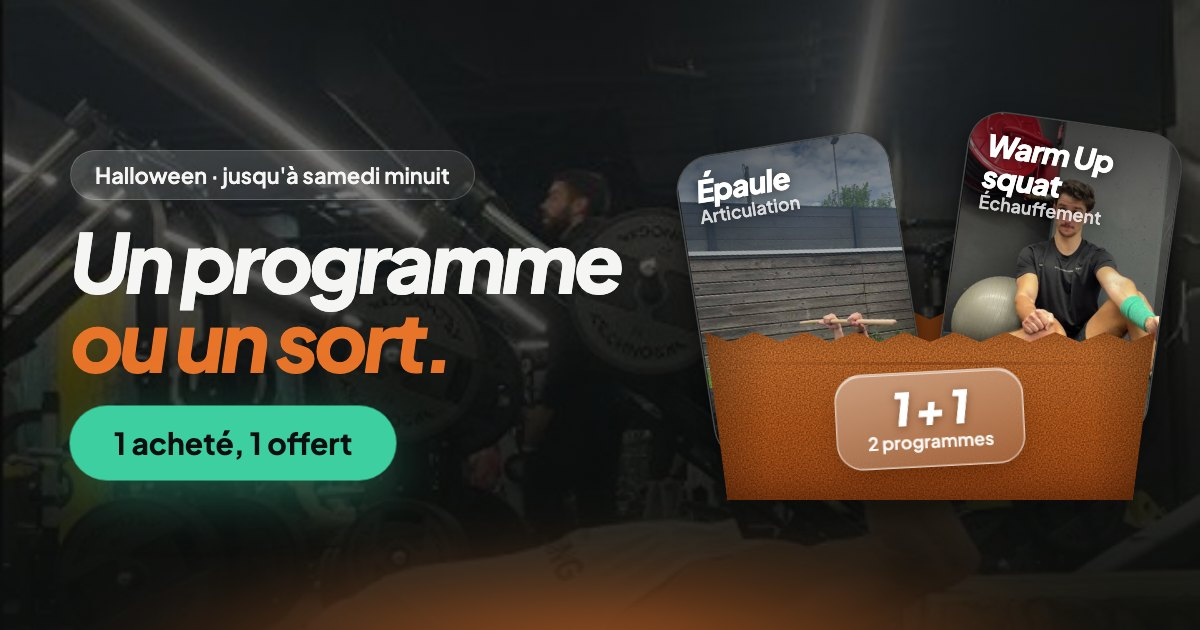
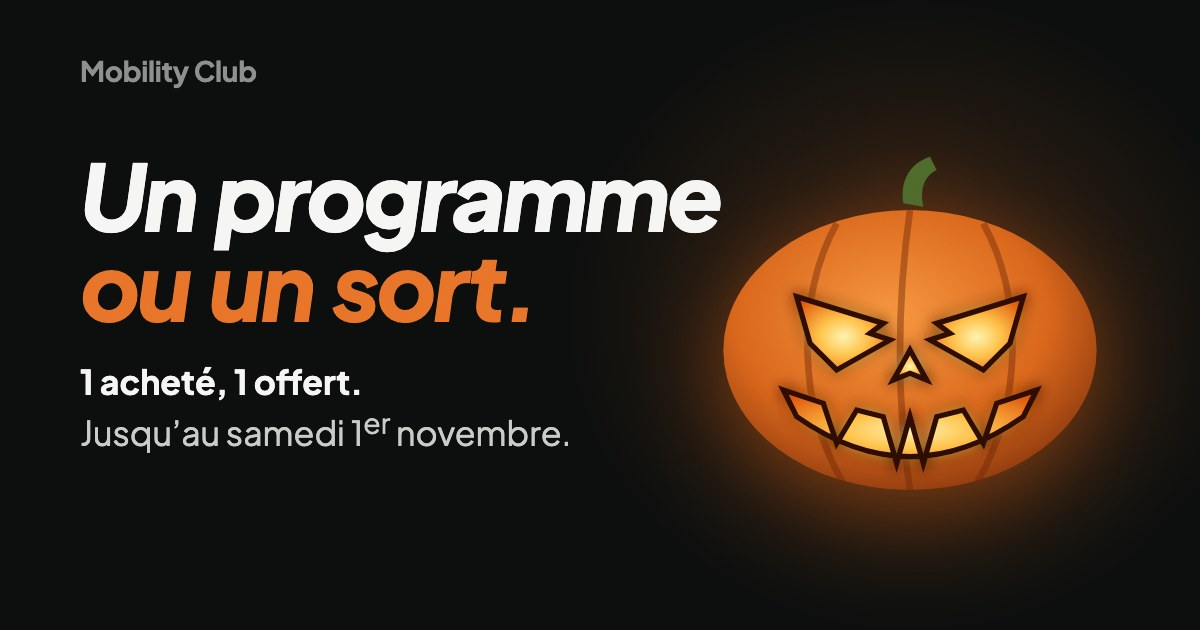
feat(halloween): visuels d'annonce (4 stories, 2 bannières mail, og) avec la citrouille sculptée
Compositions HTML + rendu Playwright (npm run visuels:halloween).

diff --git a/scripts/visuels-halloween/story-4.html b/scripts/visuels-halloween/story-4.html
@@ -1,0 +1,31 @@
+<!DOCTYPE html>
+<html lang="fr"><head><meta charset="UTF-8" /><title>Story 4</title>
+<link rel="preconnect" href="https://fonts.googleapis.com" /><link rel="preconnect" href="https://fonts.gstatic.com" crossorigin />
+<link href="https://fonts.googleapis.com/css2?family=Plus+Jakarta+Sans:ital,wght@0,400;0,500;0,600;0,700;0,800;1,700;1,800&display=swap" rel="stylesheet" />
+<link rel="stylesheet" href="../../assets/halloween/commun.css" />
+<link rel="stylesheet" href="visuel.css" />
+<style>
+
+.st{display:flex;flex-direction:column;align-items:center;}
+.glow{background:radial-gradient(60% 26% at 50% 20%,rgba(232,116,42,.20),transparent 72%);}
+.pk{margin-top:250px;filter:drop-shadow(0 16px 40px rgba(255,110,20,.40));}
+h1{margin-top:30px;font-size:112px;letter-spacing:-.035em;word-spacing:.07em;line-height:.98;text-align:center;}
+.sub{margin-top:26px;font-size:40px;line-height:1.3;color:var(--body);text-align:center;}
+.sub b{color:var(--text);font-weight:700;}
+.prix{list-style:none;margin:48px 0 0;padding:0;width:920px;display:grid;gap:16px;}
+.prix li{display:flex;justify-content:space-between;align-items:center;gap:24px;padding:26px 40px;border-radius:30px;background:rgba(255,255,255,.04);box-shadow:inset 0 0 0 1px rgba(255,255,255,.08);font-size:34px;line-height:1.25;color:var(--text);}
+.prix li:first-child{background:linear-gradient(160deg,rgba(232,116,42,.16),rgba(232,116,42,.04));box-shadow:inset 0 0 0 1px rgba(232,116,42,.38);}
+.prix b{font-size:70px;font-weight:800;font-style:italic;letter-spacing:-.05em;white-space:nowrap;line-height:1;}
+.hint{position:absolute;left:0;right:0;top:1176px;display:flex;justify-content:center;align-items:center;gap:14px;font-size:36px;font-weight:700;color:var(--green);}
+.hint svg{width:34px;height:34px;stroke:var(--green);}
+.marque{position:absolute;left:0;right:0;top:1530px;text-align:center;font-size:32px;}
+
+</style></head>
+<body>
+<div class="st s1080"><div class="glow"></div>
+<svg class="pk" style="width:210px" viewBox="0 0 120 104" aria-hidden="true" focusable="false"><defs><radialGradient id="emCorps" cx="45%" cy="38%" r="70%"><stop offset="0" stop-color="#F7963F"/><stop offset=".6" stop-color="#D9661C"/><stop offset="1" stop-color="#7E300C"/></radialGradient><radialGradient id="emFeu" cx="50%" cy="55%" r="65%"><stop offset="0" stop-color="#FFF3B0"/><stop offset=".4" stop-color="#FFC24A"/><stop offset="1" stop-color="#E0520A"/></radialGradient><filter id="emLueur" x="-40%" y="-40%" width="180%" height="180%"><feGaussianBlur stdDeviation="2" result="f"/><feMerge><feMergeNode in="f"/><feMergeNode in="SourceGraphic"/></feMerge></filter></defs><path d="M58 16 C57 9 60 4 66 2 L68 6 C64 8 63 12 64 17 Z" fill="#4E6B2C"/><ellipse cx="60" cy="60" rx="56" ry="42" fill="url(#emCorps)"/><g fill="none" stroke="#6E2808" stroke-opacity=".45" stroke-width="2"><path d="M38 22 C26 44 26 76 40 100"/><path d="M60 18 C56 46 56 76 60 102"/><path d="M82 22 C94 44 94 76 80 100"/></g><g class="jack-feu" fill="url(#emFeu)" stroke="#2E0E01" stroke-width="1.6" filter="url(#emLueur)"><path d="M26 44 L52 52 L48 55 L54 57 L38 66 L30 58 Z"/><path d="M94 44 L68 52 L72 55 L66 57 L82 66 L90 58 Z"/><path d="M60 60 L55 69 L60 67 L65 69 Z"/><path d="M22 72 L34 76 L38 88 L44 78 L52 80 L56 94 L60 80 L64 94 L68 80 L76 78 L82 88 L86 76 L98 72 L94 80 Q60 104 26 80 Z"/></g></svg>
+<h1>Jusqu’à samedi,<br><em>23 h 59.</em></h1>
+<p class="sub"><b>1 programme acheté, 1 offert.</b><br>Tu paies le plus cher des deux.</p>
+<ul class="prix"><li><span>2 Articulation, ou<br>Articulation + Warm Up</span><b>90 €</b></li><li><span>2 Warm Up</span><b>49 €</b></li></ul>
+<div class="hint"><span>Touche le lien</span><svg viewBox="0 0 24 24" fill="none" stroke-width="2.4" stroke-linecap="round" stroke-linejoin="round"><path d="M12 5v14M6 13l6 6 6-6"/></svg></div>
+<div class="marque">mobilityclub.co/halloween</div></div></body></html>

diff --git a/scripts/visuels-halloween/email-1.html b/scripts/visuels-halloween/email-1.html
@@ -1,0 +1,23 @@
+<!DOCTYPE html>
+<html lang="fr"><head><meta charset="UTF-8" /><title>Email 1</title>
+<link rel="preconnect" href="https://fonts.googleapis.com" /><link rel="preconnect" href="https://fonts.gstatic.com" crossorigin />
+<link href="https://fonts.googleapis.com/css2?family=Plus+Jakarta+Sans:ital,wght@0,400;0,500;0,600;0,700;0,800;1,700;1,800&display=swap" rel="stylesheet" />
+<link rel="stylesheet" href="../../assets/halloween/commun.css" />
+<link rel="stylesheet" href="visuel.css" />
+<style>
+
+.glow{background:radial-gradient(40% 60% at 78% 50%,rgba(232,116,42,.22),transparent 72%);}
+.pk{position:absolute;right:90px;top:170px;filter:drop-shadow(0 18px 44px rgba(255,110,20,.42));}
+.tx{position:absolute;left:80px;top:130px;width:640px;}
+h1{font-size:124px;letter-spacing:-.035em;word-spacing:.07em;line-height:.98;}
+.sub{margin-top:30px;font-size:32px;line-height:1.35;color:var(--body);}
+.sub b{color:var(--text);font-weight:700;}
+.cta{margin-top:40px;height:76px;padding:0 32px 0 38px;font-size:28px;gap:14px;}
+.cta::after{width:28px;height:28px;}
+.marque{position:absolute;left:80px;top:48px;font-size:28px;}
+
+</style></head>
+<body>
+<div class="st" style="width:1200px;height:800px"><div class="glow"></div><div class="marque">Mobility Club</div>
+<svg class="pk" style="width:420px" viewBox="0 0 120 104" aria-hidden="true" focusable="false"><defs><radialGradient id="emCorps" cx="45%" cy="38%" r="70%"><stop offset="0" stop-color="#F7963F"/><stop offset=".6" stop-color="#D9661C"/><stop offset="1" stop-color="#7E300C"/></radialGradient><radialGradient id="emFeu" cx="50%" cy="55%" r="65%"><stop offset="0" stop-color="#FFF3B0"/><stop offset=".4" stop-color="#FFC24A"/><stop offset="1" stop-color="#E0520A"/></radialGradient><filter id="emLueur" x="-40%" y="-40%" width="180%" height="180%"><feGaussianBlur stdDeviation="2" result="f"/><feMerge><feMergeNode in="f"/><feMergeNode in="SourceGraphic"/></feMerge></filter></defs><path d="M58 16 C57 9 60 4 66 2 L68 6 C64 8 63 12 64 17 Z" fill="#4E6B2C"/><ellipse cx="60" cy="60" rx="56" ry="42" fill="url(#emCorps)"/><g fill="none" stroke="#6E2808" stroke-opacity=".45" stroke-width="2"><path d="M38 22 C26 44 26 76 40 100"/><path d="M60 18 C56 46 56 76 60 102"/><path d="M82 22 C94 44 94 76 80 100"/></g><g class="jack-feu" fill="url(#emFeu)" stroke="#2E0E01" stroke-width="1.6" filter="url(#emLueur)"><path d="M26 44 L52 52 L48 55 L54 57 L38 66 L30 58 Z"/><path d="M94 44 L68 52 L72 55 L66 57 L82 66 L90 58 Z"/><path d="M60 60 L55 69 L60 67 L65 69 Z"/><path d="M22 72 L34 76 L38 88 L44 78 L52 80 L56 94 L60 80 L64 94 L68 80 L76 78 L82 88 L86 76 L98 72 L94 80 Q60 104 26 80 Z"/></g></svg>
+<div class="tx"><h1>1 acheté,<br><em>1 offert.</em></h1><p class="sub">Tu paies le plus cher des deux.<br><b>Jusqu’au samedi 1<sup>er</sup> novembre, 23 h 59.</b></p><span class="cta">Choisir mes programmes</span></div></div></body></html>

diff --git a/scripts/visuels-halloween/og.html b/scripts/visuels-halloween/og.html
@@ -1,0 +1,21 @@
+<!DOCTYPE html>
+<html lang="fr"><head><meta charset="UTF-8" /><title>OG</title>
+<link rel="preconnect" href="https://fonts.googleapis.com" /><link rel="preconnect" href="https://fonts.gstatic.com" crossorigin />
+<link href="https://fonts.googleapis.com/css2?family=Plus+Jakarta+Sans:ital,wght@0,400;0,500;0,600;0,700;0,800;1,700;1,800&display=swap" rel="stylesheet" />
+<link rel="stylesheet" href="../../assets/halloween/commun.css" />
+<link rel="stylesheet" href="visuel.css" />
+<style>
+
+.glow{background:radial-gradient(40% 70% at 76% 50%,rgba(232,116,42,.22),transparent 72%);}
+.pk{position:absolute;right:90px;top:150px;filter:drop-shadow(0 18px 44px rgba(255,110,20,.42));}
+.tx{position:absolute;left:80px;top:150px;width:700px;}
+h1{font-size:92px;white-space:nowrap;letter-spacing:-.035em;word-spacing:.07em;line-height:.98;}
+.sub{margin-top:30px;font-size:34px;line-height:1.3;color:var(--body);}
+.sub b{color:var(--text);font-weight:700;}
+.marque{position:absolute;left:80px;top:54px;font-size:28px;}
+
+</style></head>
+<body>
+<div class="st" style="width:1200px;height:630px"><div class="glow"></div><div class="marque">Mobility Club</div>
+<svg class="pk" style="width:400px" viewBox="0 0 120 104" aria-hidden="true" focusable="false"><defs><radialGradient id="emCorps" cx="45%" cy="38%" r="70%"><stop offset="0" stop-color="#F7963F"/><stop offset=".6" stop-color="#D9661C"/><stop offset="1" stop-color="#7E300C"/></radialGradient><radialGradient id="emFeu" cx="50%" cy="55%" r="65%"><stop offset="0" stop-color="#FFF3B0"/><stop offset=".4" stop-color="#FFC24A"/><stop offset="1" stop-color="#E0520A"/></radialGradient><filter id="emLueur" x="-40%" y="-40%" width="180%" height="180%"><feGaussianBlur stdDeviation="2" result="f"/><feMerge><feMergeNode in="f"/><feMergeNode in="SourceGraphic"/></feMerge></filter></defs><path d="M58 16 C57 9 60 4 66 2 L68 6 C64 8 63 12 64 17 Z" fill="#4E6B2C"/><ellipse cx="60" cy="60" rx="56" ry="42" fill="url(#emCorps)"/><g fill="none" stroke="#6E2808" stroke-opacity=".45" stroke-width="2"><path d="M38 22 C26 44 26 76 40 100"/><path d="M60 18 C56 46 56 76 60 102"/><path d="M82 22 C94 44 94 76 80 100"/></g><g class="jack-feu" fill="url(#emFeu)" stroke="#2E0E01" stroke-width="1.6" filter="url(#emLueur)"><path d="M26 44 L52 52 L48 55 L54 57 L38 66 L30 58 Z"/><path d="M94 44 L68 52 L72 55 L66 57 L82 66 L90 58 Z"/><path d="M60 60 L55 69 L60 67 L65 69 Z"/><path d="M22 72 L34 76 L38 88 L44 78 L52 80 L56 94 L60 80 L64 94 L68 80 L76 78 L82 88 L86 76 L98 72 L94 80 Q60 104 26 80 Z"/></g></svg>
+<div class="tx"><h1>Un programme<br><em>ou un sort.</em></h1><p class="sub"><b>1 acheté, 1 offert.</b><br>Jusqu’au samedi 1<sup>er</sup> novembre.</p></div></div></body></html>

diff --git a/scripts/visuels-halloween/story-2.html b/scripts/visuels-halloween/story-2.html
@@ -1,0 +1,29 @@
+<!DOCTYPE html>
+<html lang="fr"><head><meta charset="UTF-8" /><title>Story 2</title>
+<link rel="preconnect" href="https://fonts.googleapis.com" /><link rel="preconnect" href="https://fonts.gstatic.com" crossorigin />
+<link href="https://fonts.googleapis.com/css2?family=Plus+Jakarta+Sans:ital,wght@0,400;0,500;0,600;0,700;0,800;1,700;1,800&display=swap" rel="stylesheet" />
+<link rel="stylesheet" href="../../assets/halloween/commun.css" />
+<link rel="stylesheet" href="visuel.css" />
+<style>
+
+.glow{background:radial-gradient(60% 30% at 20% 62%,rgba(232,116,42,.16),transparent 70%);}
+.photo-bg .sh{object-position:50% 40%;}
+.photo-bg::after{content:"";position:absolute;inset:0;background:linear-gradient(180deg,rgba(13,15,14,.7) 0%,rgba(13,15,14,.35) 30%,rgba(13,15,14,.8) 62%,rgba(13,15,14,.95) 100%);}
+.in{position:absolute;left:80px;right:80px;top:300px;}
+h1{font-size:106px;letter-spacing:-.035em;word-spacing:.07em;line-height:.98;text-wrap:balance;}
+.sub{margin-top:34px;font-size:40px;line-height:1.3;color:var(--body);max-width:none;}
+.sub b{color:var(--text);font-weight:700;}
+.steps{position:absolute;left:80px;right:80px;top:800px;padding:14px 48px;border-radius:40px;list-style:none;margin:0;}
+.steps li{display:grid;grid-template-columns:84px 1fr;column-gap:20px;align-items:baseline;padding:30px 0;border-bottom:1px solid rgba(255,255,255,.1);}
+.steps li:last-child{border-bottom:0;}
+.steps .n{grid-row:1/span 2;font-style:italic;font-weight:800;font-size:68px;line-height:1;color:var(--pumpkin);letter-spacing:-.04em;}
+.steps b{font-style:italic;font-weight:800;font-size:46px;letter-spacing:-.03em;line-height:1.1;color:var(--text);}
+.steps span{margin-top:8px;font-size:32px;line-height:1.3;color:var(--body);}
+.marque{position:absolute;left:0;right:0;top:1545px;text-align:center;font-size:32px;}
+
+</style></head>
+<body>
+<div class="st s1080"><div class="photo-bg"><img class="bl" src="../../assets/halloween/colonne.jpg" alt=""><img class="sh" src="../../assets/halloween/colonne.jpg" alt=""></div><div class="glow"></div>
+<div class="in"><h1>Ton bilan trouve<br><em>ta zone la plus faible.</em></h1><p class="sub">Ton programme de <b>12 semaines</b> part de là.</p></div>
+<ol class="steps lg" style="border-radius:40px"><li><span class="n">1</span><b>Le bilan</b><span>Des tests guidés, zone par zone.</span></li><li><span class="n">2</span><b>Ta zone la plus faible</b><span>L’algorithme part de là.</span></li><li><span class="n">3</span><b>12 semaines</b><span>Chaque semaine monte d’un cran.</span></li></ol>
+<div class="marque">Mobility Club</div></div></body></html>

diff --git a/scripts/visuels-halloween/story-1.html b/scripts/visuels-halloween/story-1.html
@@ -1,0 +1,19 @@
+<!DOCTYPE html>
+<html lang="fr"><head><meta charset="UTF-8" /><title>Story 1</title>
+<link rel="preconnect" href="https://fonts.googleapis.com" /><link rel="preconnect" href="https://fonts.gstatic.com" crossorigin />
+<link href="https://fonts.googleapis.com/css2?family=Plus+Jakarta+Sans:ital,wght@0,400;0,500;0,600;0,700;0,800;1,700;1,800&display=swap" rel="stylesheet" />
+<link rel="stylesheet" href="../../assets/halloween/commun.css" />
+<link rel="stylesheet" href="visuel.css" />
+<style>
+
+.st{display:flex;flex-direction:column;align-items:center;}
+.glow{background:radial-gradient(60% 34% at 50% 40%,rgba(232,116,42,.20),transparent 72%),radial-gradient(70% 30% at 50% 100%,rgba(232,116,42,.10),transparent 75%);}
+.pk{margin-top:470px;filter:drop-shadow(0 24px 56px rgba(255,110,20,.40));}
+h1{margin-top:70px;font-size:104px;letter-spacing:-.035em;word-spacing:.07em;line-height:.98;text-align:center;}
+.marque{position:absolute;left:0;right:0;top:1510px;text-align:center;font-size:36px;}
+
+</style></head>
+<body>
+<div class="st s1080"><div class="glow"></div>
+<svg class="pk" style="width:640px" viewBox="0 0 120 104" aria-hidden="true" focusable="false"><defs><radialGradient id="emCorps" cx="45%" cy="38%" r="70%"><stop offset="0" stop-color="#F7963F"/><stop offset=".6" stop-color="#D9661C"/><stop offset="1" stop-color="#7E300C"/></radialGradient><radialGradient id="emFeu" cx="50%" cy="55%" r="65%"><stop offset="0" stop-color="#FFF3B0"/><stop offset=".4" stop-color="#FFC24A"/><stop offset="1" stop-color="#E0520A"/></radialGradient><filter id="emLueur" x="-40%" y="-40%" width="180%" height="180%"><feGaussianBlur stdDeviation="2" result="f"/><feMerge><feMergeNode in="f"/><feMergeNode in="SourceGraphic"/></feMerge></filter></defs><path d="M58 16 C57 9 60 4 66 2 L68 6 C64 8 63 12 64 17 Z" fill="#4E6B2C"/><ellipse cx="60" cy="60" rx="56" ry="42" fill="url(#emCorps)"/><g fill="none" stroke="#6E2808" stroke-opacity=".45" stroke-width="2"><path d="M38 22 C26 44 26 76 40 100"/><path d="M60 18 C56 46 56 76 60 102"/><path d="M82 22 C94 44 94 76 80 100"/></g><g class="jack-feu" fill="url(#emFeu)" stroke="#2E0E01" stroke-width="1.6" filter="url(#emLueur)"><path d="M26 44 L52 52 L48 55 L54 57 L38 66 L30 58 Z"/><path d="M94 44 L68 52 L72 55 L66 57 L82 66 L90 58 Z"/><path d="M60 60 L55 69 L60 67 L65 69 Z"/><path d="M22 72 L34 76 L38 88 L44 78 L52 80 L56 94 L60 80 L64 94 L68 80 L76 78 L82 88 L86 76 L98 72 L94 80 Q60 104 26 80 Z"/></g></svg>
+<h1>Ce n’est pas toi.<br><em>C’est la routine.</em></h1><div class="marque">Mobility Club</div></div></body></html>

diff --git a/scripts/visuels-halloween/story-3.html b/scripts/visuels-halloween/story-3.html
@@ -1,0 +1,32 @@
+<!DOCTYPE html>
+<html lang="fr"><head><meta charset="UTF-8" /><title>Story 3</title>
+<link rel="preconnect" href="https://fonts.googleapis.com" /><link rel="preconnect" href="https://fonts.gstatic.com" crossorigin />
+<link href="https://fonts.googleapis.com/css2?family=Plus+Jakarta+Sans:ital,wght@0,400;0,500;0,600;0,700;0,800;1,700;1,800&display=swap" rel="stylesheet" />
+<link rel="stylesheet" href="../../assets/halloween/commun.css" />
+<link rel="stylesheet" href="visuel.css" />
+<style>
+
+.glow{background:radial-gradient(60% 24% at 50% 16%,rgba(232,116,42,.16),transparent 72%),radial-gradient(55% 20% at 50% 78%,rgba(124,107,240,.14),transparent 72%);}
+.hd{position:absolute;left:80px;right:80px;top:290px;}
+h1{font-size:112px;letter-spacing:-.035em;word-spacing:.07em;line-height:.98;text-wrap:balance;}
+.of{margin-top:26px;font-style:italic;font-weight:800;font-size:60px;letter-spacing:-.035em;color:var(--text);}
+.of em{color:var(--pumpkin);}
+.packs{position:absolute;left:80px;right:80px;top:770px;display:grid;gap:26px;}
+.pack{height:320px;display:grid;grid-template-columns:1fr auto;align-items:end;padding:44px 48px;}
+.pack .bgp{-webkit-mask-image:linear-gradient(90deg,#000 20%,transparent 85%);mask-image:linear-gradient(90deg,#000 20%,transparent 85%);}
+.pack .nm{font-size:68px;}
+.pack .zs{margin-top:14px;font-size:32px;line-height:1.3;max-width:none;}
+.pack .px{font-size:150px;}
+.pack .px small{font-size:30px;font-weight:600;font-style:normal;letter-spacing:0;color:var(--muted);margin-left:8px;}
+.pied{position:absolute;left:80px;right:80px;top:1470px;font-size:38px;color:var(--text);font-weight:700;font-style:italic;letter-spacing:-.02em;}
+.pied span{color:var(--body);font-weight:500;font-style:normal;}
+
+</style></head>
+<body>
+<div class="st s1080"><div class="glow"></div>
+<div class="hd"><h1>Un programme <em>ou un sort.</em></h1><div class="of">1 acheté, 1 offert.</div></div>
+<div class="packs">
+<div class="pack lg o"><img class="bgp" src="../../assets/halloween/epaule.jpg" alt="" style="object-position:50% 78%"><div><div class="nm">Articulation</div><p class="zs">Épaule, colonne, genou…</p></div><div class="px">90 €</div></div>
+<div class="pack lg v"><img class="bgp" src="../../assets/halloween/squat.jpg" alt=""><div><div class="nm">Warm Up</div><p class="zs">Squat, deadlift, course à pied…</p></div><div class="px">49 €</div></div>
+</div>
+<div class="pied">Tu paies le plus cher.<br><span>12 semaines, construites sur ton bilan.</span></div></div></body></html>

diff --git a/scripts/visuels-halloween/email-2.html b/scripts/visuels-halloween/email-2.html
@@ -1,0 +1,29 @@
+<!DOCTYPE html>
+<html lang="fr"><head><meta charset="UTF-8" /><title>Email 2</title>
+<link rel="preconnect" href="https://fonts.googleapis.com" /><link rel="preconnect" href="https://fonts.gstatic.com" crossorigin />
+<link href="https://fonts.googleapis.com/css2?family=Plus+Jakarta+Sans:ital,wght@0,400;0,500;0,600;0,700;0,800;1,700;1,800&display=swap" rel="stylesheet" />
+<link rel="stylesheet" href="../../assets/halloween/commun.css" />
+<link rel="stylesheet" href="visuel.css" />
+<style>
+
+.glow{background:radial-gradient(50% 50% at 25% 60%,rgba(232,116,42,.12),transparent 72%),radial-gradient(50% 50% at 78% 60%,rgba(124,107,240,.12),transparent 72%);}
+.hd{position:absolute;left:60px;right:60px;top:42px;font-style:italic;font-weight:800;font-size:56px;letter-spacing:-.04em;line-height:1;}
+.packs{position:absolute;left:60px;right:60px;top:140px;display:grid;grid-template-columns:1fr 1fr;gap:24px;}
+.pack{height:340px;padding:34px 38px;display:flex;flex-direction:column;border-radius:32px;}
+.pack .bgp{-webkit-mask-image:linear-gradient(180deg,#000 0%,transparent 75%);mask-image:linear-gradient(180deg,#000 0%,transparent 75%);}
+.pack .nm{font-size:52px;}
+.pack .zs{margin-top:10px;font-size:26px;line-height:1.3;}
+.pack .px{margin-top:auto;font-size:112px;}
+.pack .px small{font-size:26px;font-weight:600;font-style:normal;letter-spacing:0;color:var(--muted);margin-left:8px;}
+.pied{position:absolute;left:60px;right:60px;top:512px;font-size:27px;color:var(--body);}
+.pied b{color:var(--text);font-weight:700;}
+
+</style></head>
+<body>
+<div class="st" style="width:1200px;height:600px"><div class="glow"></div>
+<div class="hd">Deux programmes. <em>Tu paies le plus cher.</em></div>
+<div class="packs">
+<div class="pack lg o"><img class="bgp" src="../../assets/halloween/epaule.jpg" alt="" style="object-position:50% 78%"><div class="nm">Articulation</div><p class="zs">Une zone, 12 semaines, 3 à 5 séances par semaine.</p><div class="px">90 €</div></div>
+<div class="pack lg v"><img class="bgp" src="../../assets/halloween/squat.jpg" alt=""><div class="nm">Warm Up</div><p class="zs">Un mouvement ou ton sport, 12 semaines.</p><div class="px">49 €</div></div>
+</div>
+<div class="pied"><b>2 Articulation ou Articulation + Warm Up : 90 €.</b> 2 Warm Up : 49 €.</div></div></body></html>

diff --git a/scripts/visuels-halloween/visuel.css b/scripts/visuels-halloween/visuel.css
@@ -1,0 +1,29 @@
+/* Visuels d'annonce Halloween — s'appuie sur commun.css (verre .lg/.glass, .cta, grain, citrouille .jack-feu). */
+:root{--violet:#A99CFF;--violet-nuit:#1B1740;--violet-ligne:rgba(124,107,240,.5);}
+html,body{margin:0;padding:0;}
+body{background:#0D0F0E;overflow:hidden;position:relative;line-height:1.2;}
+.st{position:relative;overflow:hidden;isolation:isolate;background:#0D0F0E;}
+.s1080{width:1080px;height:1920px;}
+.glow{position:absolute;inset:0;z-index:-1;pointer-events:none;}
+.pk{display:block;height:auto;}
+.pk .jack-feu{animation:none;opacity:1;}
+em{font-style:italic;color:var(--pumpkin);}
+h1,h2,h3{margin:0;}
+p{margin:0;font-size:inherit;}
+.marque{font-weight:700;letter-spacing:-.01em;color:var(--muted);}
+.photo-bg{position:absolute;inset:0;z-index:-2;}
+.photo-bg img{position:absolute;inset:0;width:100%;height:100%;object-fit:cover;}
+.photo-bg .bl{inset:-6%;width:112%;height:112%;filter:blur(26px) brightness(.38) saturate(.9);}
+.photo-bg .sh{filter:brightness(.5) saturate(.95);}
+/* paquets en verre liquide */
+.pack{position:relative;overflow:hidden;isolation:isolate;border-radius:36px;}
+.pack>*{position:relative;z-index:1;}
+.pack .bgp{position:absolute;z-index:0;inset:0;width:100%;height:100%;object-fit:cover;filter:saturate(1.05) contrast(1.04) brightness(.62);}
+.pack .nm{font-style:italic;font-weight:800;letter-spacing:-.03em;word-spacing:.06em;line-height:1;color:var(--text);text-shadow:0 2px 18px rgba(0,0,0,.6);}
+.pack .zs{color:var(--body);}
+.pack .px{font-style:italic;font-weight:800;letter-spacing:-.06em;line-height:.9;color:var(--text);}
+.pack.v .nm{color:var(--violet);}
+.pack.v{background:linear-gradient(160deg,rgba(124,107,240,.18),rgba(124,107,240,.04));}
+.pack.v::before{background:linear-gradient(180deg,rgba(169,156,255,.6) 0%,rgba(169,156,255,.16) 22%,rgba(169,156,255,0) 42%,rgba(169,156,255,0) 58%,rgba(169,156,255,.16) 80%,rgba(169,156,255,.5) 100%);-webkit-mask:linear-gradient(#fff 0 0) content-box,linear-gradient(#fff 0 0);-webkit-mask-composite:xor;mask-composite:exclude;}
+.pack.o{background:linear-gradient(160deg,rgba(232,116,42,.14),rgba(232,116,42,.03));}
+.pack.o .nm{color:var(--text);}
